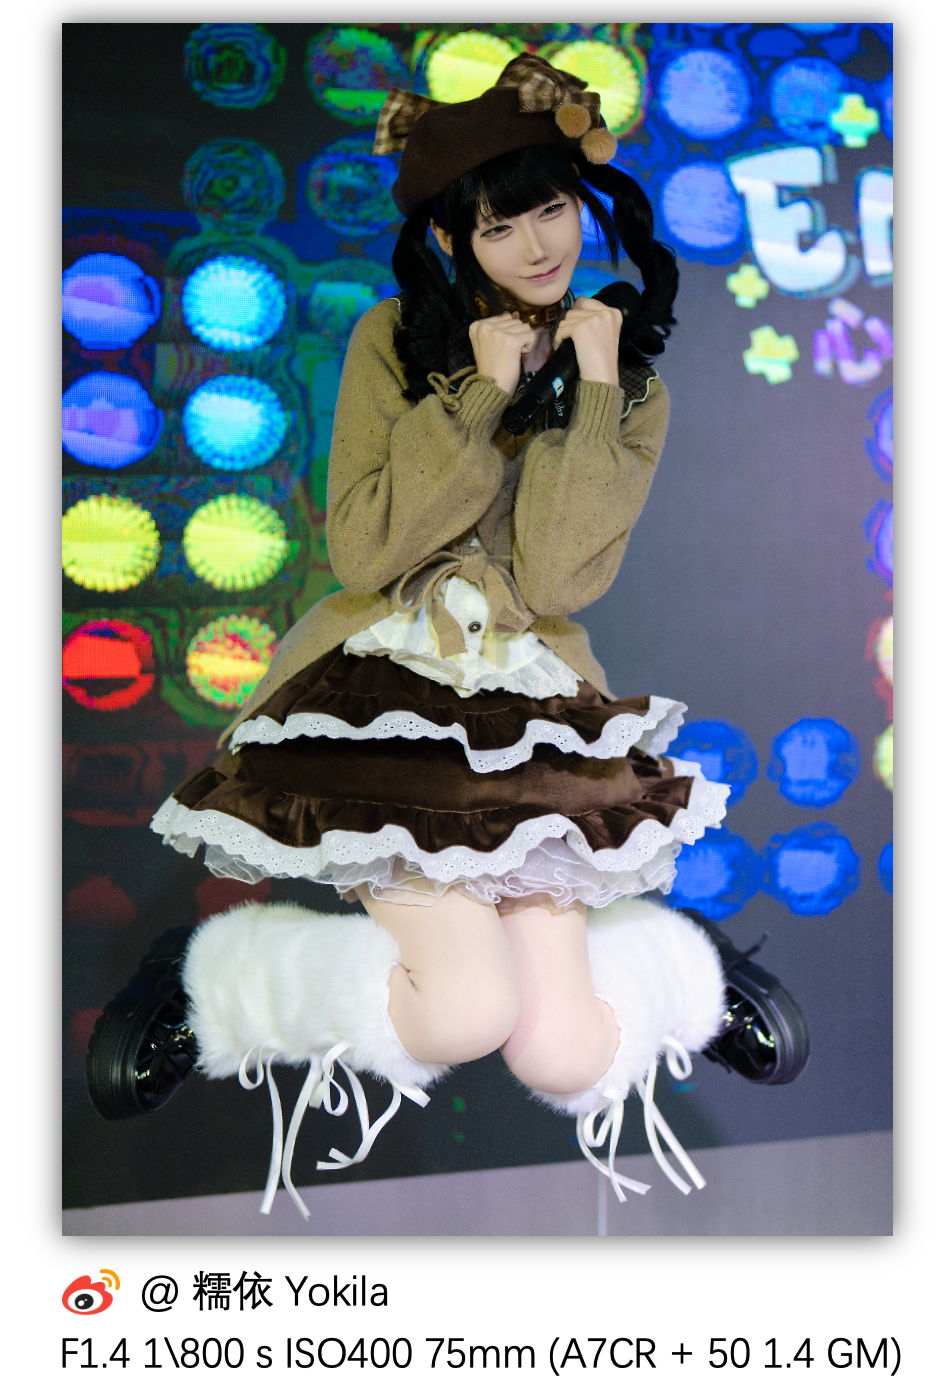
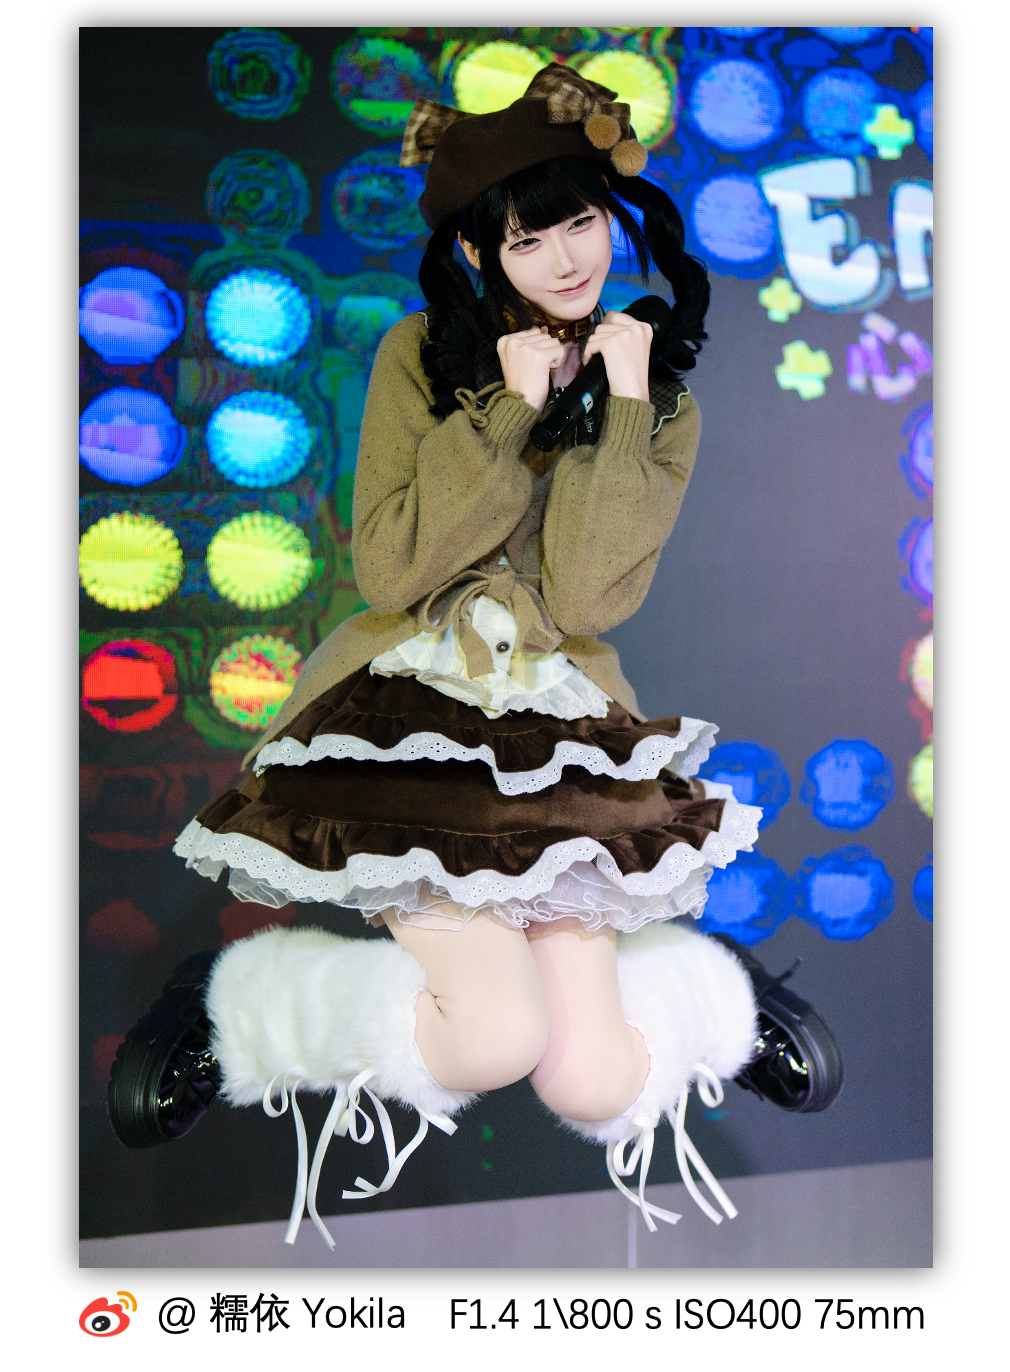
引入webp

diff --git a/content/docs/test.md b/content/docs/test.md
@@ -6,6 +6,4 @@ weight: 1
 
 # 关于
 
-作者微博：我爱菠萝萝菠爱我
-
-Github：https://github.com/xox-ota/photo-tips
+Github：[https://github.com/xox-ota/photo-tips](https://github.com/xox-ota/photo-tips)
